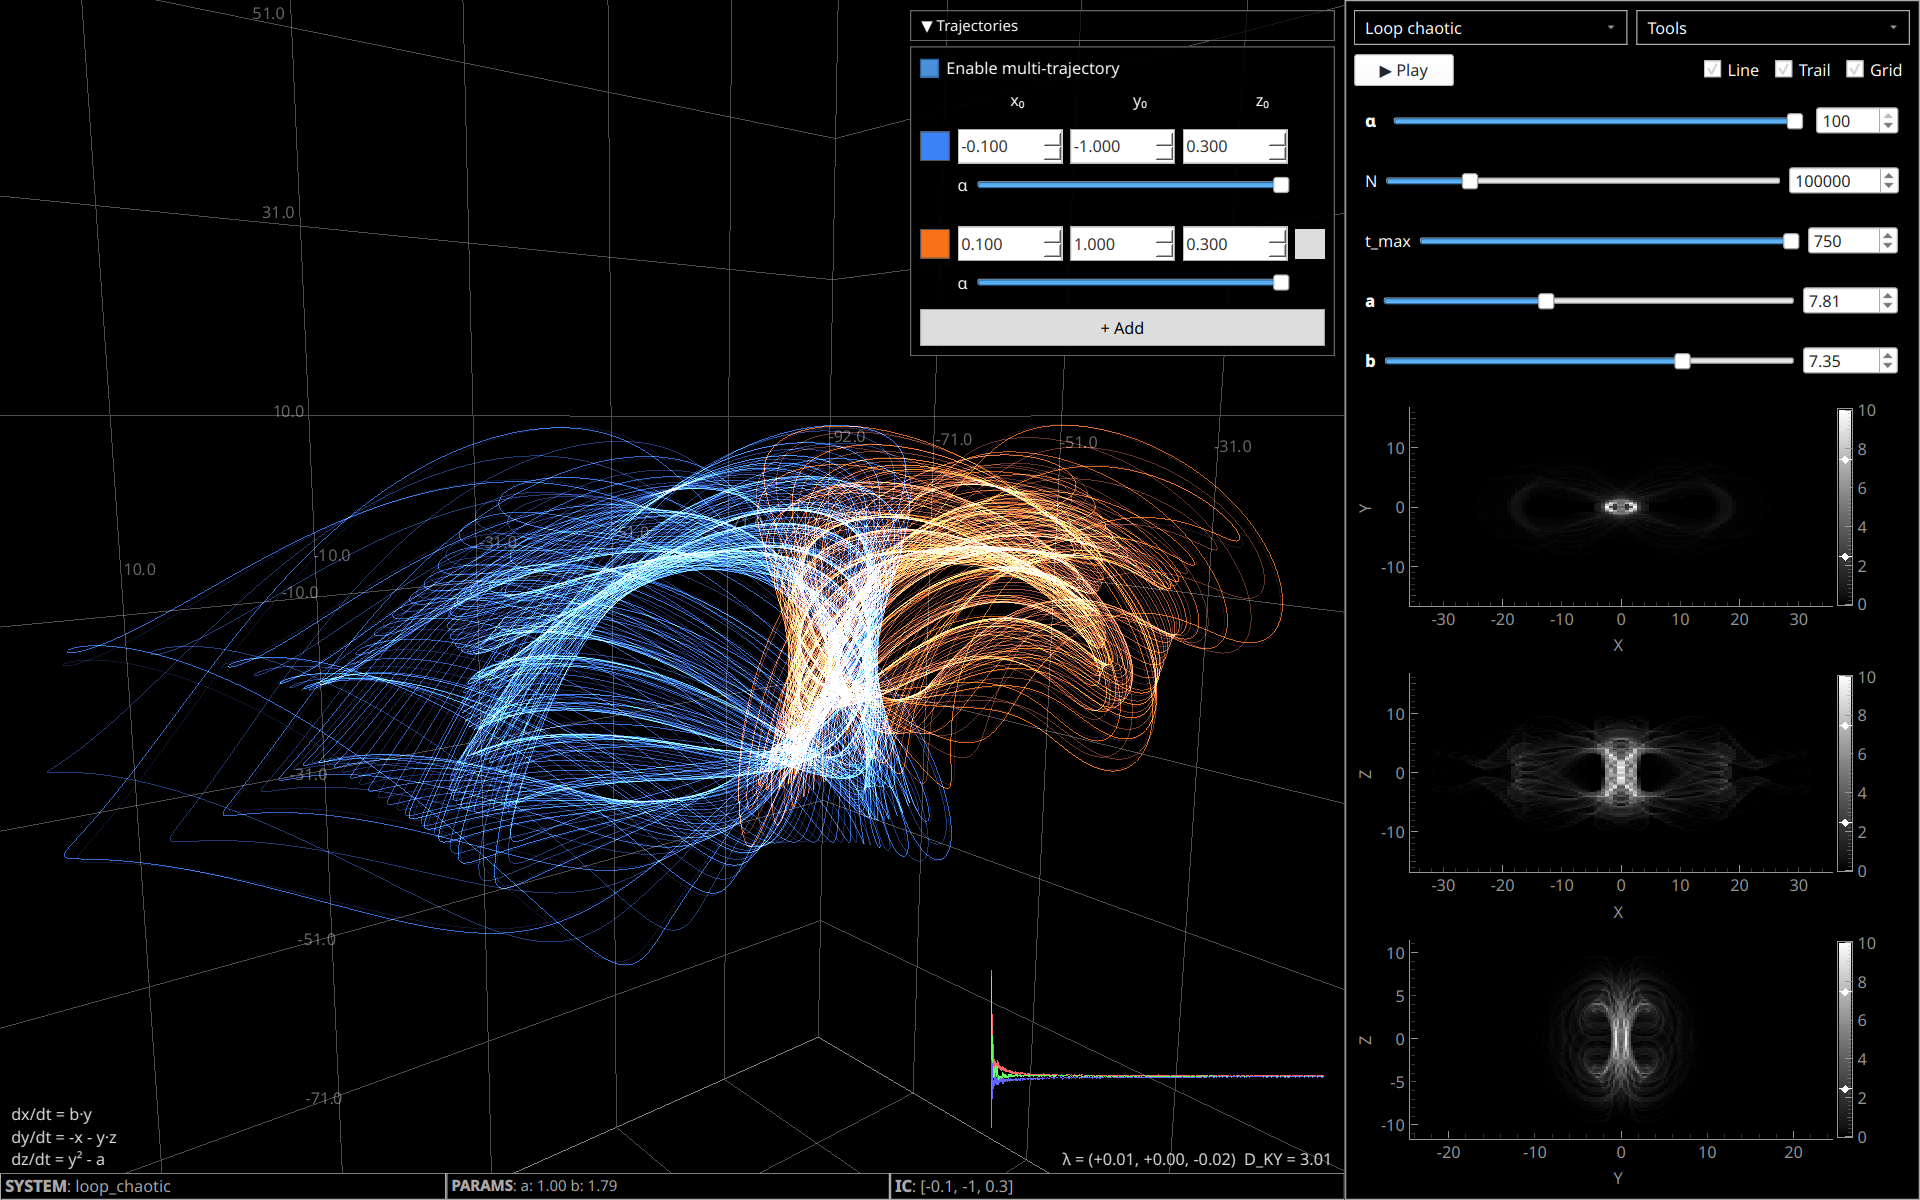
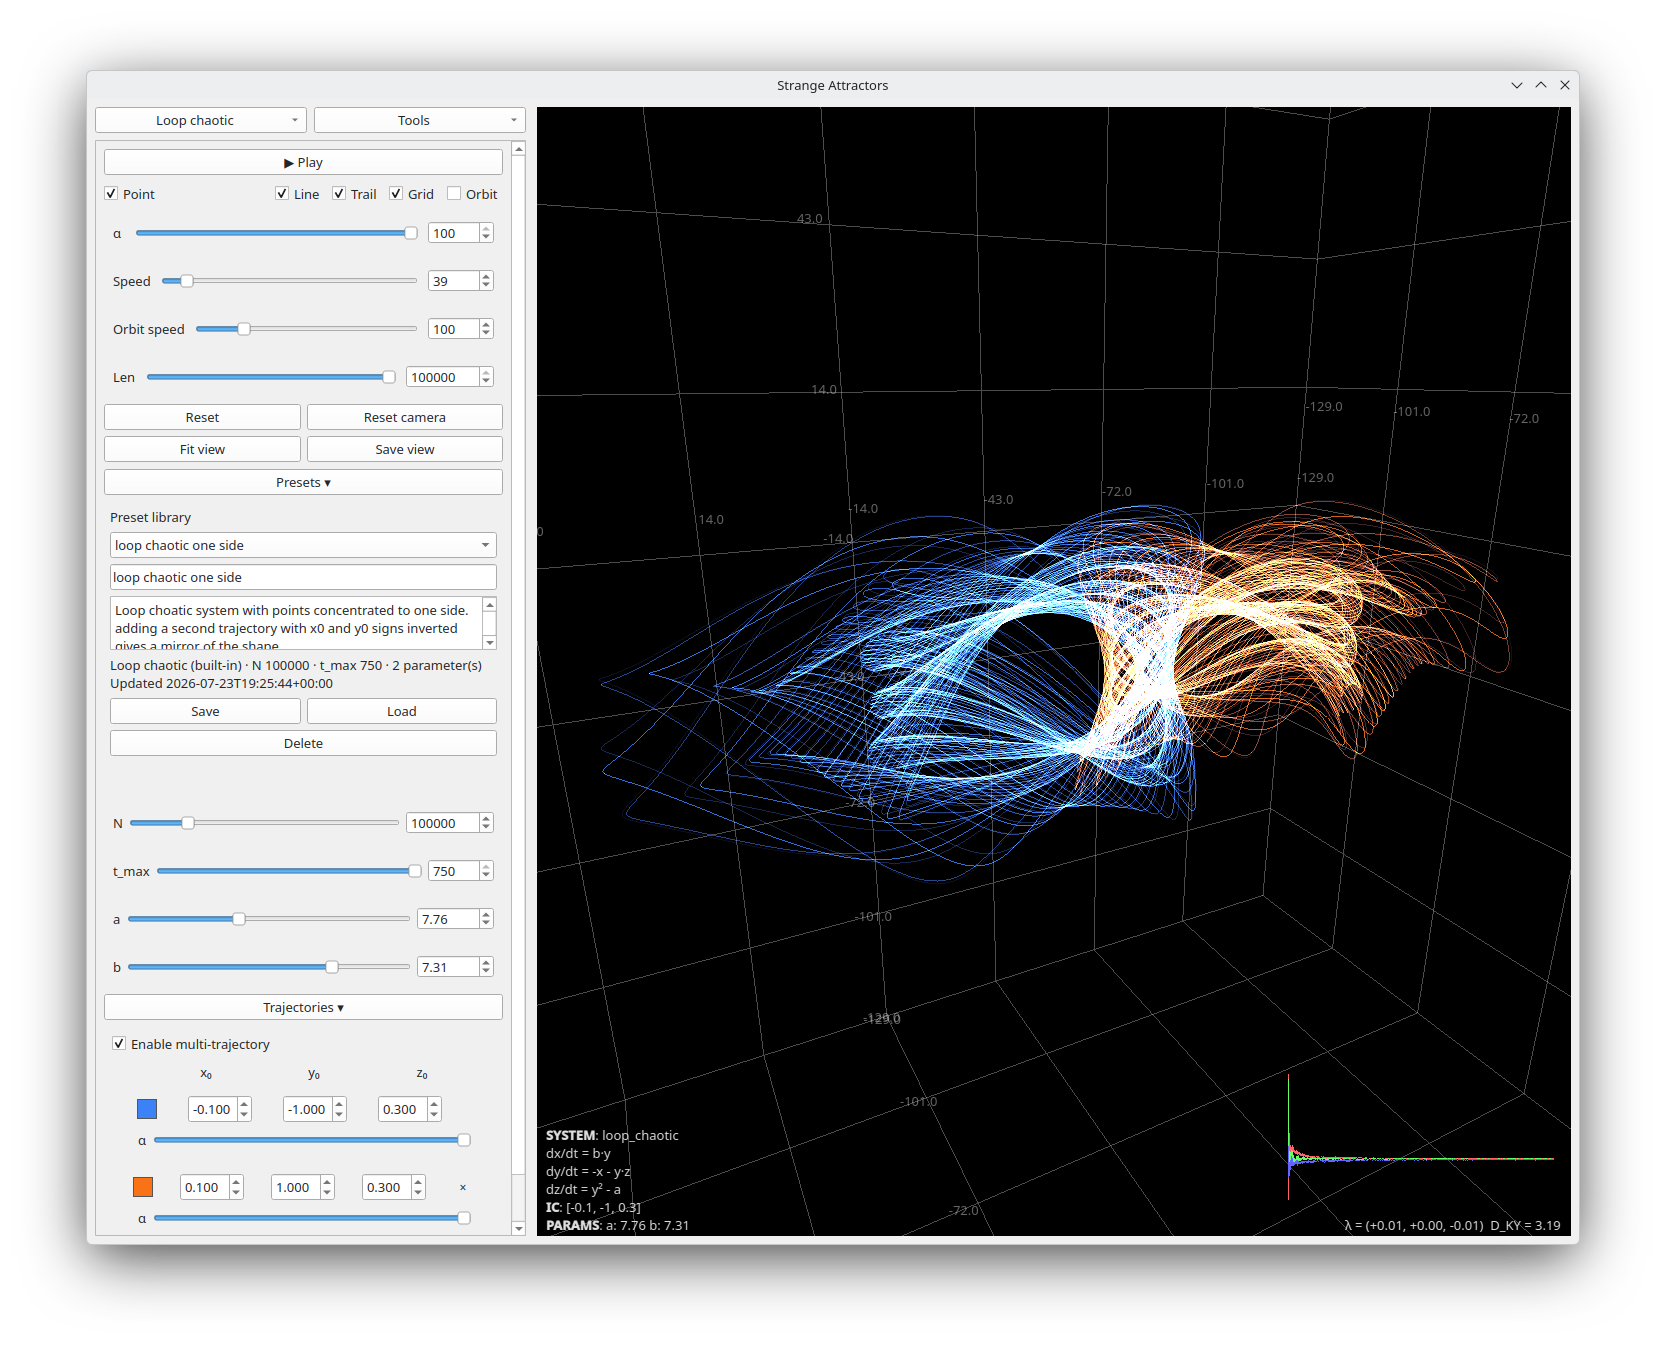
update README

diff --git a/README.md b/README.md
@@ -5,7 +5,7 @@ PyQtGraph app for visualising strange attractors.
 <table>
   <tr>
     <td><img src="media/image_7.png" /></td>
-    <td><img src="media/image_5.gif" /></td>
+    <td><img src="media/image_8.png" /></td>
   </tr>
   <tr>
     <td><img src="media/image_4.png" /></td>